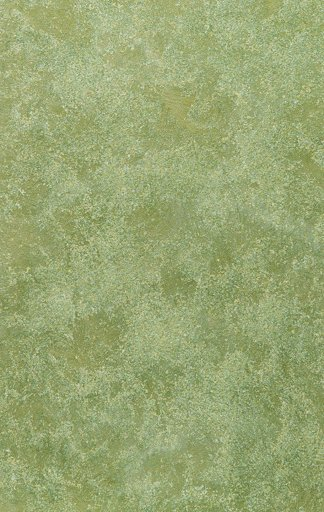
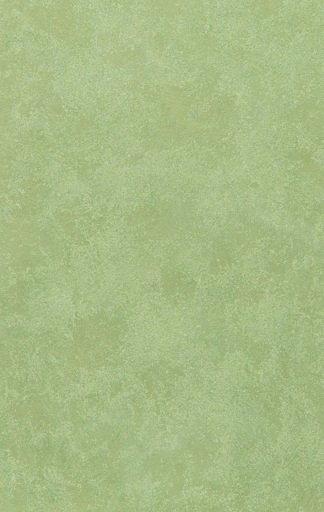
Ajustes segun retroalimentacion: (1) agua menos brillante/chillona - roughness subido de 0.2 a 0.85 (quita el brillo especular fuerte), metalness a 0, color mas pastel/desaturado. (2) Arboles con 3 tarjetas a 60 grados en vez de 2 a 90 grados (antes se notaba mucho que eran solo 2 planos pegados en 

diff --git a/modulo-08-3d.js b/modulo-08-3d.js
@@ -250,7 +250,7 @@
   function buildBuildings(buildings) {
     const positions = [];
     const normals = [];
-    const edgePositions = []; // lineas de borde (contorno del techo + esquinas verticales)
+    const edgePositions = []; // lineas de borde: SOLO el perimetro del techo (nada de esquinas verticales ni lineas interiores)
     buildings.forEach(b => {
       const pts = b.pts.map(p => toScene(p[0], p[1]));
       const h = b.h * SCALE;
@@ -266,7 +266,7 @@
           a.x, 0, a.z, c.x, h, c.z, a.x, h, a.z
         );
         for (let k = 0; k < 6; k++) normals.push(nx, 0, nz);
-        edgePositions.push(a.x, 0, a.z, a.x, h, a.z); // esquina vertical
+        edgePositions.push(a.x, h, a.z, c.x, h, c.z); // borde del perimetro del techo (solamente)
       }
 
       // Techo plano simple (sin parapeto sintetico): las mallas REALES de
@@ -295,8 +295,9 @@
     mesh.receiveShadow = true;
     sceneRoot.add(mesh);
 
-    // Borde negro/oscuro de cada edificio (contorno del techo + esquinas),
-    // estilo render arquitectonico (edificios blancos con linea de borde).
+    // Borde oscuro de cada edificio: solo el perimetro del techo (linea
+    // simple, sin esquinas verticales ni lineas internas), para que se
+    // vea limpio como el borde de una silueta, no un dibujo de wireframe.
     const edgeGeo = new THREE.BufferGeometry();
     edgeGeo.setAttribute("position", new THREE.Float32BufferAttribute(edgePositions, 3));
     const edgeMat = new THREE.LineBasicMaterial({ color: 0x2b2e33, transparent: true, opacity: 0.55 });
@@ -417,11 +418,20 @@
   // reorientar cada billboard hacia la camara en cada cuadro.
   function makeCrossGeometry() {
     const geo = new THREE.BufferGeometry();
+    // 3 tarjetas a 60 grados entre si (en vez de solo 2 a 90 grados), para
+    // que el arbol se vea con volumen real desde cualquier angulo y no
+    // como dos planos pegados en cruz (se nota mucho desde ciertos angulos).
+    const c60 = Math.cos(Math.PI / 3) * 0.5, s60 = Math.sin(Math.PI / 3) * 0.5;
     const positions = [
       -0.5, 0, 0, 0.5, 0, 0, 0.5, 1, 0, -0.5, 0, 0, 0.5, 1, 0, -0.5, 1, 0,
       0, 0, -0.5, 0, 0, 0.5, 0, 1, 0.5, 0, 0, -0.5, 0, 1, 0.5, 0, 1, -0.5,
+      -c60, 0, -s60, c60, 0, s60, c60, 1, s60, -c60, 0, -s60, c60, 1, s60, -c60, 1, -s60,
     ];
-    const uvs = [0, 0, 1, 0, 1, 1, 0, 0, 1, 1, 0, 1, 0, 0, 1, 0, 1, 1, 0, 0, 1, 1, 0, 1];
+    const uvs = [
+      0, 0, 1, 0, 1, 1, 0, 0, 1, 1, 0, 1,
+      0, 0, 1, 0, 1, 1, 0, 0, 1, 1, 0, 1,
+      0, 0, 1, 0, 1, 1, 0, 0, 1, 1, 0, 1,
+    ];
     geo.setAttribute("position", new THREE.Float32BufferAttribute(positions, 3));
     geo.setAttribute("uv", new THREE.Float32BufferAttribute(uvs, 2));
     geo.computeVertexNormals();
@@ -502,8 +512,8 @@
     waterTex.wrapS = THREE.RepeatWrapping;
     waterTex.wrapT = THREE.RepeatWrapping;
     const mat = new THREE.MeshStandardMaterial({
-      map: waterTex, color: 0xbfe0ee, roughness: 0.2, metalness: 0.05,
-      transparent: true, opacity: 0.55, side: THREE.DoubleSide,
+      map: waterTex, color: 0xd6e8ee, roughness: 0.85, metalness: 0,
+      transparent: true, opacity: 0.5, side: THREE.DoubleSide,
     });
     const waterMesh = new THREE.Mesh(geo, mat);
     waterMesh.receiveShadow = true;
@@ -549,7 +559,7 @@
   function buildParques(parques) {
     const positions = [];
     const uvs = [];
-    const UV_SCALE = 0.08;
+    const UV_SCALE = 0.025; // tiles mas grandes, se nota menos la costura de repeticion
     parques.forEach(p => {
       const pts = p.pts.map(pt => toScene(pt[0], pt[1]));
       if (pts.length < 3) return;
@@ -571,7 +581,7 @@
     const pastoTex = new THREE.TextureLoader().load("./assets/textura_pasto.jpg");
     pastoTex.wrapS = THREE.RepeatWrapping;
     pastoTex.wrapT = THREE.RepeatWrapping;
-    const mat = new THREE.MeshStandardMaterial({ map: pastoTex, color: 0xbfd9ab, roughness: 0.95, side: THREE.DoubleSide });
+    const mat = new THREE.MeshStandardMaterial({ map: pastoTex, color: 0xc7dbb0, roughness: 0.95, side: THREE.DoubleSide });
     const mesh = new THREE.Mesh(geo, mat);
     mesh.receiveShadow = true;
     sceneRoot.add(mesh);

diff --git a/modulo-08-3d.html b/modulo-08-3d.html
@@ -206,6 +206,6 @@
 
 <script src="https://cdnjs.cloudflare.com/ajax/libs/three.js/r128/three.min.js"></script>
 <script src="https://cdn.jsdelivr.net/npm/three@0.128.0/examples/js/controls/OrbitControls.js"></script>
-<script src="modulo-08-3d.js?v=17"></script>
+<script src="modulo-08-3d.js?v=18"></script>
 </body>
 </html>
